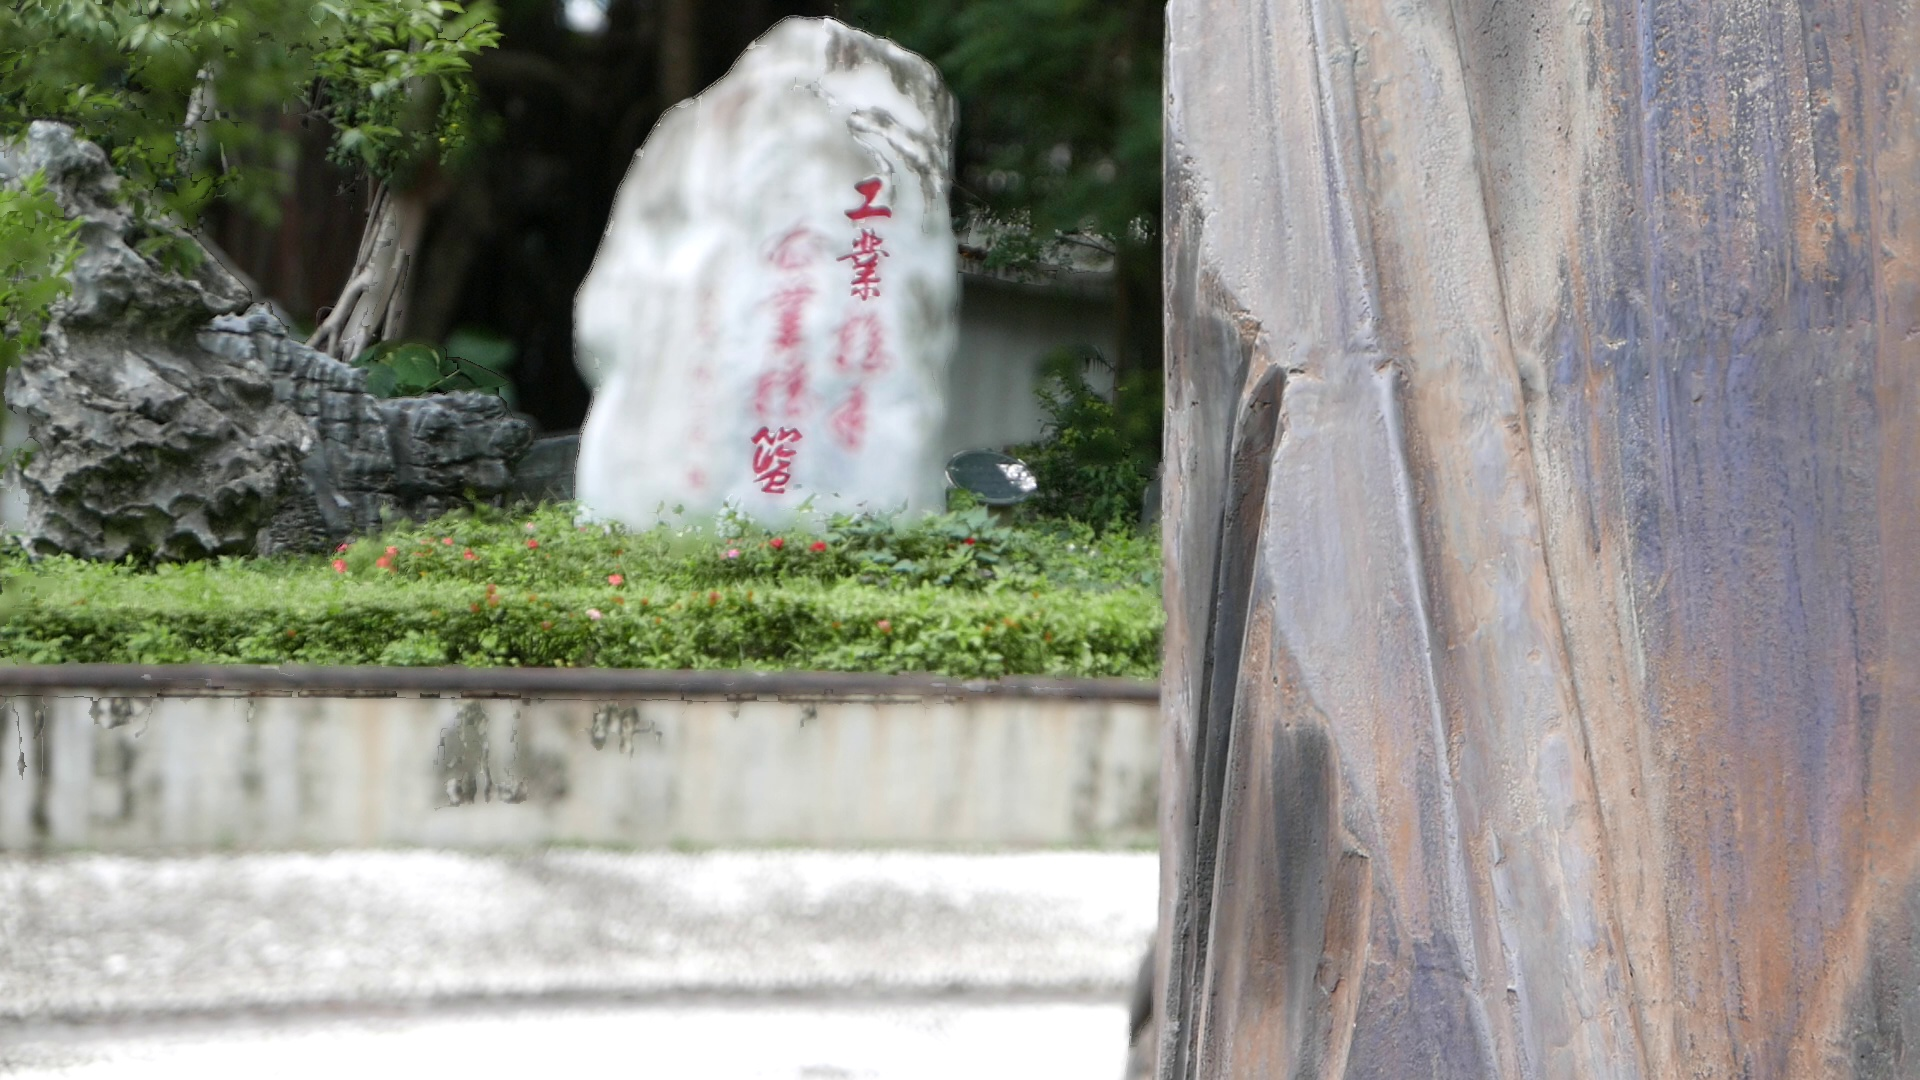
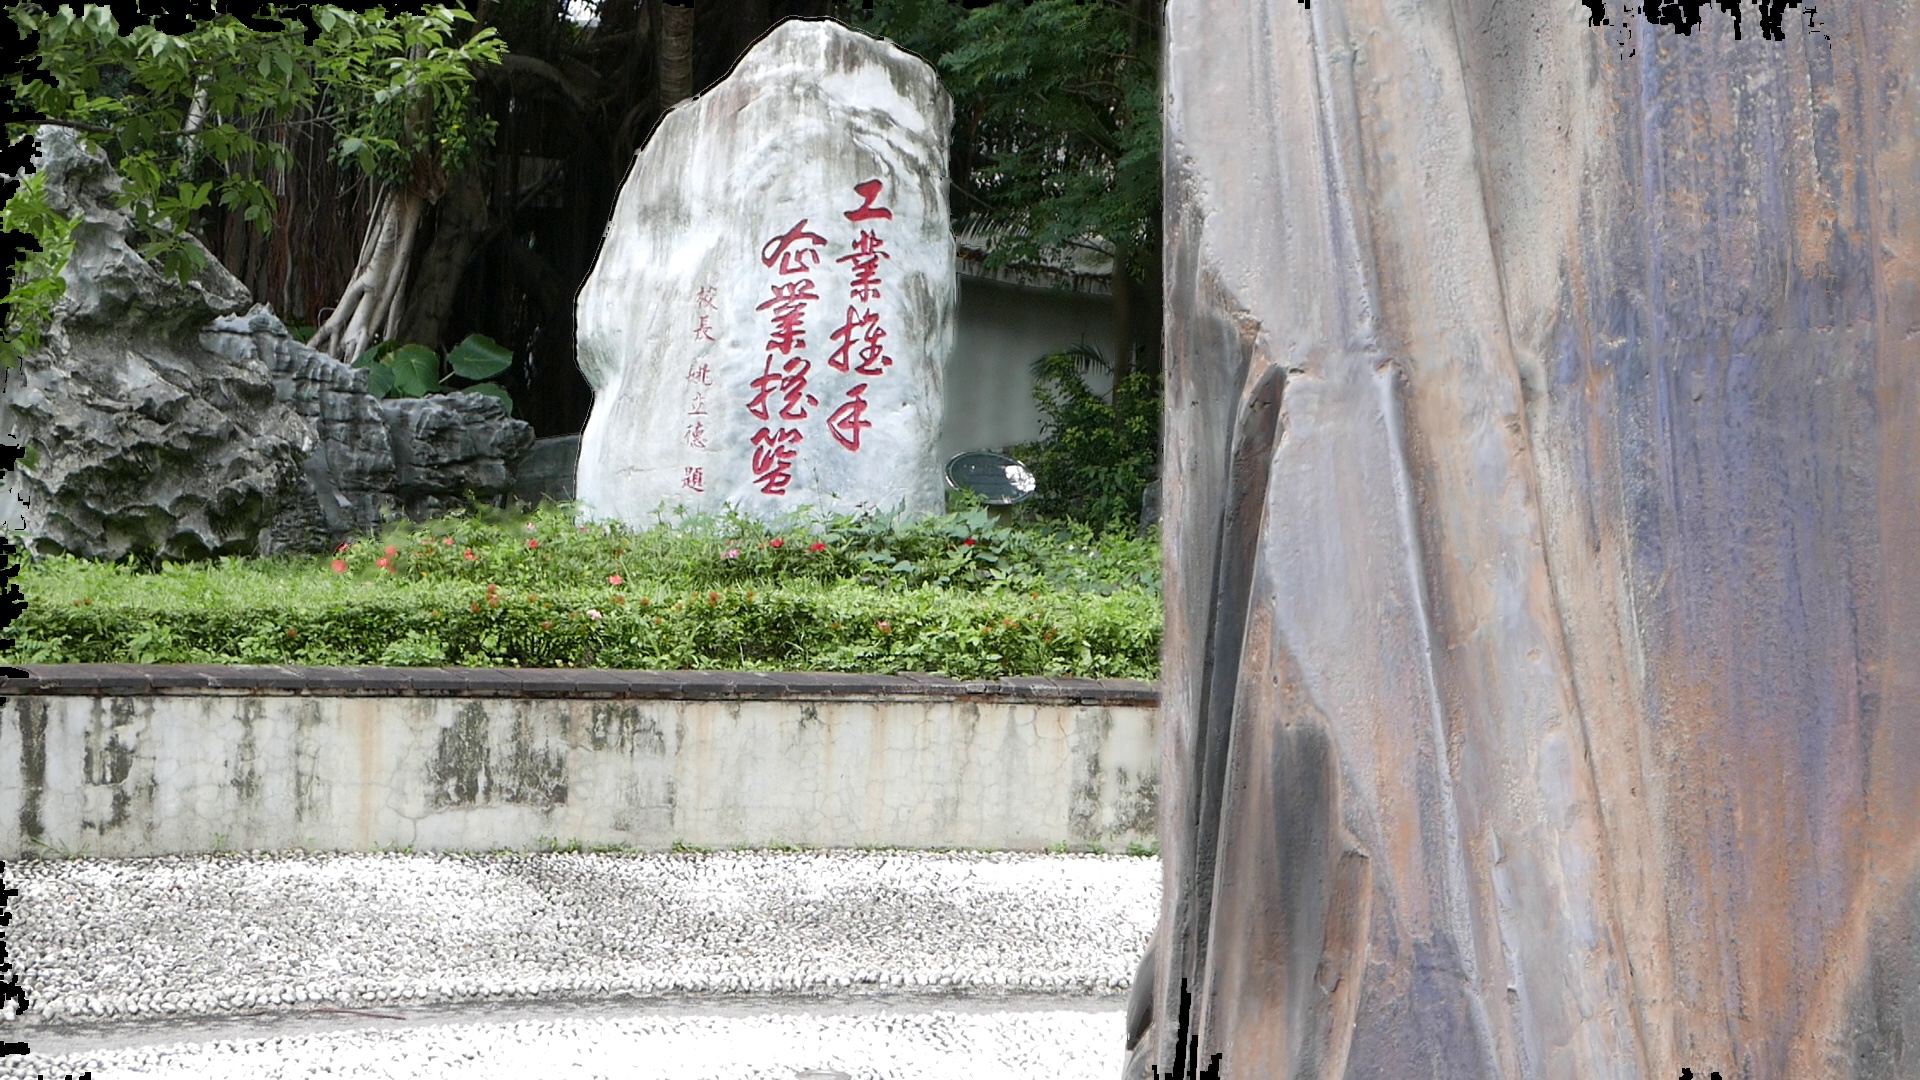
feat: separate contours background by connected component

diff --git a/segmentation.py b/segmentation.py
@@ -2,7 +2,7 @@ import cv2
 import numpy as np
 
 
-def contours_segmentation(image, contours):
+def contours_segmentation(image, contours, area_threshold=1000):
     if not isinstance(image, np.ndarray):
         raise ValueError(
             'Input must be a numpy array but got {}'.format(type(image)))
@@ -27,8 +27,13 @@ def contours_segmentation(image, contours):
 
     # add the uncovered regions
     uncovered_mask = cv2.bitwise_not(all_masks)
-    uncovered_regions = cv2.bitwise_and(image, image, mask=uncovered_mask)
-    segmented_images.append(uncovered_regions)
+    num_labels, labels = cv2.connectedComponents(uncovered_mask)
+    for label in range(1, num_labels):
+        mask = np.zeros((height, width), dtype=np.uint8)
+        mask[labels == label] = 255
+        if np.sum(mask) >= 255 * area_threshold:
+            uncovered_regions = cv2.bitwise_and(image, image, mask=mask)
+            segmented_images.append(uncovered_regions)
 
     return segmented_images
 

diff --git a/multi-focus-merger-v2.py b/multi-focus-merger-v2.py
@@ -18,8 +18,8 @@ def main():
     video_name = video_name + '_v2'
     sampling_interval = 1
     reverse = False  # whether to process the video in reverse order
-    sharpness_threshold = 2000  # sharpness threshold for focus points
-    diff_threshold = 100  # difference threshold for focus points
+    sharpness_threshold = 1000  # sharpness threshold for focus points
+    diff_threshold = 1000  # difference threshold for focus points
     area_threshold = 5000  # contour will be ignored if area < area_threshold
     kernel_size = 5  # cv2.morphologyEx parameter
     low_threshold, high_threshold = 50, 150  # cv2.Canny parameter

diff --git a/multi-focus-merger-v1.py b/multi-focus-merger-v1.py
@@ -11,7 +11,7 @@ from sharpness_comparison import sharpness_comparison
 
 def main():
     # parameters
-    video_name = 'P1500667'
+    video_name = 'P1500718'
     video_path = f'videos/{video_name}.MP4'
     sampling_interval = 1
     reverse = False  # whether to process the video in reverse order
